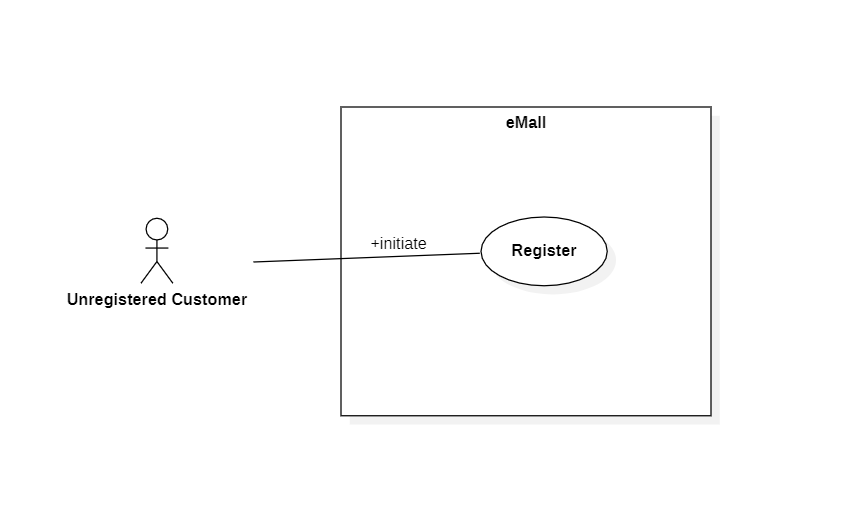
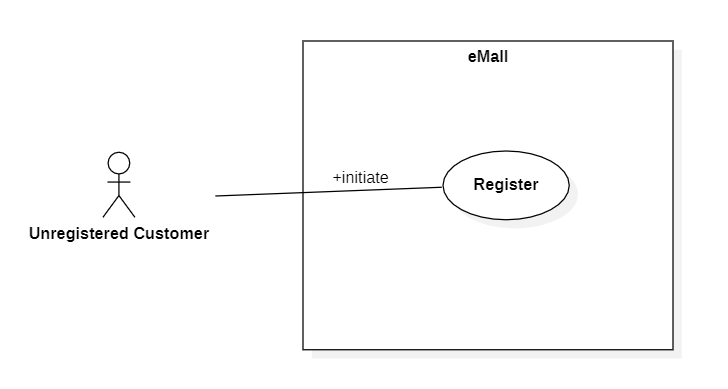
Typesettings changes

diff --git a/RASD/tex/section3.tex b/RASD/tex/section3.tex
@@ -12,6 +12,7 @@ The system is fully operated on the Internet, so it doesn't feature any hardware
 The main communication interfaces of the platform are the users and CPOs.
 The system interacts with users to receive booking requests or to send information, and to CPOs to let them select different charging station options.
 %%%
+\newpage
 \subsection{Functional Requirements}
 
 \subsubsection{Use case diagrams}
@@ -19,7 +20,7 @@ The system interacts with users to receive booking requests or to send informati
     \item \textbf{Unregistered Customer}
     \begin{figure}[H]
         \begin{center}
-            \includegraphics[width=\textwidth]{img/Unregistered_customer.PNG}
+            \includegraphics[width=0.8\textwidth]{img/Unregistered_customer.PNG}
             \caption{Unregistered Customer - Use Case Diagram}
         \end{center}
     \end{figure}
@@ -27,7 +28,7 @@ The system interacts with users to receive booking requests or to send informati
     \item \textbf{Registered Customer}
     \begin{figure}[H]
         \begin{center}
-            \includegraphics[width=\textwidth]{img/Registered_customer.PNG}
+            \includegraphics[width=0.8\textwidth]{img/Registered_customer.PNG}
             \caption{Registered Customer - Use Case Diagram}
         \end{center}
     \end{figure}
@@ -126,6 +127,7 @@ The system interacts with users to receive booking requests or to send informati
         \caption{Login Customer}
     \end{center}
 \end{figure}
+\newpage
 %%BOOK A CHARGE
 \begin{longtable}{|c| p{10cm}|}
     \hline ID        & 3\\
@@ -166,6 +168,7 @@ The system interacts with users to receive booking requests or to send informati
         \caption{Book a charge}
     \end{center}
 \end{figure}
+\newpage
 %%REMOTELYSTART
 \begin{longtable}{|c| p{10cm}|}
     \hline ID        & 4\\
@@ -209,6 +212,7 @@ The system interacts with users to receive booking requests or to send informati
         \caption{Remotely start a charge}
     \end{center}
 \end{figure}
+\newpage
 %% PAY FUNCTION
 \begin{longtable}{|c| p{10cm}|}
     \hline ID        & 5\\
@@ -249,6 +253,7 @@ The system interacts with users to receive booking requests or to send informati
         \caption{Pay for the Charging Service}
     \end{center}
 \end{figure}
+\newpage
 %% SUGGESTION FUNCTION
 \begin{longtable}{|c| p{10cm}|}
     \hline ID        & 6\\
@@ -327,7 +332,7 @@ The system interacts with users to receive booking requests or to send informati
         \caption{CPO Login}
     \end{center}
 \end{figure}
-
+\newpage
 %%CPO ENERGY PROVIDER SELECT
 \begin{longtable}{|c| p{10cm}|}
     \hline ID        & 8\\
@@ -365,6 +370,7 @@ The system interacts with users to receive booking requests or to send informati
         \caption{Select a DSO option}
     \end{center}
 \end{figure}
+\newpage
 %%CPO CHOOSE STATION PRICE
 \begin{longtable}{|c| p{10cm}|}
     \hline ID        & 9\\
@@ -404,6 +410,7 @@ The system interacts with users to receive booking requests or to send informati
         \caption{Change station energy price}
     \end{center}
 \end{figure}
+\newpage
 %%CPO SET SPECIAL OFFER
 \begin{longtable}{|c| p{10cm}|}
     \hline ID        & 10\\
@@ -443,6 +450,7 @@ The system interacts with users to receive booking requests or to send informati
         \caption{Set special offers}
     \end{center}
 \end{figure}
+\newpage
 %%CPO DECIDE BATTERY POLICY
 \begin{longtable}{|c| p{10cm}|}
     \hline ID        & 11\\
@@ -639,7 +647,7 @@ Finally, the system should be able to handle many concurrent users, at least
 
 The system must be compliant to the GDPR law, as it will mainly used in EU. \newline
 Secure connections must be used for data comunicaction. \newline
-Customers must accept and read the privacy policy during the sign-up phase. \newline
+Customers must accept and read the privacy policy during the sign-up phase.
 
 \subsubsection{Hardware Limitations}
 

diff --git a/RASD/tex/section2.tex b/RASD/tex/section2.tex
@@ -158,7 +158,7 @@ The Customer will then be notified at the computed time with a push notification
 This functionality allows the \textbf{CPOs} (\ref{CPO}) to manually adjust the energy provider. An energy provider can be select automatically, or a CPO can manually select a specific \textbf{DSO} (\ref{DSO}) for the supply of energy. The first step for the CPO is to login in the platform and select a charging station. Then, the CPO can select an energy provider option for the station.
 \begin{figure}[H]
     \begin{center}
-        \includegraphics[width=\textwidth]{img/fun-en-prov.png}
+        \includegraphics[scale=0.55]{img/fun-en-prov.png}
         \caption{BPMN diagram select energy provider method}
     \end{center}
 \end{figure}

diff --git a/RASD/tex/section4.tex b/RASD/tex/section4.tex
@@ -4,8 +4,6 @@
 
 \begin{lstlisting}[language=alloy]
     
-\begin{lstlisting}[language=alloy]
-    
 //Signatures
 
 	abstract sig Bool {}
